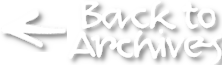
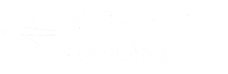
Amend Back to Archives images (e.g. size and hover state)

diff --git a/src/templates/ArchiveNarrative.vue b/src/templates/ArchiveNarrative.vue
@@ -63,16 +63,16 @@
           </div>
 
           <!-- BACK TO ARCHIVES LINK (AT TOP) -->
-          <g-link to="/archives/menu" v-b-tooltip.hover.bottom="{ variant: 'secondary' }" title="Back to Archives menu" class="backToArchives backToArchivesImgTranslate">
-            <!-- <g-image v-if="windowWidth >= 1200" alt="Back to Archives" src="~/assets/images/back-to-archives-with-arrow-on-left.png" /> -->
-            <g-image v-if="windowWidth >= 1200" alt="Back to Archives" src="~/assets/images/back-to-archives-single-line.png" style="max-width:18.5vmax" />
-            <g-image v-else alt="Back to Archives" src="~/assets/images/back-to-archives-with-arrow-on-top.png" class="backToArchivesImg" />
+          <g-link to="/archives/menu" v-b-tooltip.hover.bottom="{ variant: 'secondary' }" title="Back to Archives menu" class="backToArchives">
+            <g-image alt="Back to Archives" src="~/assets/images/back-to-archives-single-line.png" class="backToArchivesImg pt-3 pt-md-2" />
+            <g-image alt="Back to Archives" src="~/assets/images/back-to-archives-single-line-yellow1.png" class="backToArchivesImg-hover pt-3 pt-md-2" />
           </g-link>
         </header>
 
         <!-- BACK TO ARCHIVES LINK (AT END) -->
         <g-link v-else-if="s.backLink" to="/archives/menu" v-b-tooltip.hover.bottom="{ variant: 'secondary' }" title="Back to Archives menu" class="backToArchivesEnd">
-          <g-image alt="Back to Archives" src="~/assets/images/back-to-archives-with-arrow-on-left.png" />
+          <g-image alt="Back to Archives" src="~/assets/images/back-to-archives-with-arrow-on-left.png"  class="backToArchivesEndImg"/>
+          <g-image alt="Back to Archives" src="~/assets/images/back-to-archives-with-arrow-on-left-yellow.png" class="backToArchivesEndImg-hover" />
         </g-link>
         
         <div 
@@ -646,15 +646,42 @@ export default {
   right: 60px;
   z-index: 100;
 }
-.backToArchivesImg {
-  max-width: 222px;
+.backToArchivesImg,
+.backToArchivesImg-hover {
+  width: 50vw;
+  max-width: 260px;
   height: auto;
 }
+.backToArchivesImg {
+  display: inline-block;
+}
+.backToArchivesImg-hover {
+  display: none;
+}
+
 .backToArchivesEnd {
   position: absolute;
   left: 50%;
   transform: translate3d(-50%, -50%, 10px);
 }
+.backToArchivesEndImg {
+  display: inline-block;
+}
+.backToArchivesEndImg-hover {
+  display: none;
+}
+
+@media (hover) {
+  .backToArchives:hover .backToArchivesImg-hover,
+  .backToArchivesEnd:hover .backToArchivesEndImg-hover {
+    display: inline-block;
+  }
+  .backToArchives:hover .backToArchivesImg,
+  .backToArchivesEnd:hover .backToArchivesEndImg {
+    display: none;
+  }
+}
+
 
 #header {
   position: relative;
@@ -966,9 +993,6 @@ body {
     top: 20px;
     right: 20px;
   }
-  .backToArchivesImg {
-    max-width: 100px;
-  }
   #header {
     display: flex;
     align-items: center;
@@ -1002,9 +1026,6 @@ body {
     top: 27px;
     right: 27px;
   }
-  .backToArchivesImg {
-    max-width: 110px;
-  }
   #header {
     padding: 130px 4px 4px 4px !important;
   }
@@ -1015,9 +1036,6 @@ body {
   .backToArchives {
     top: 33px;
     right: 33px;
-  }
-  .backToArchivesImg {
-    max-width: 120px;
   }
   #header {
     padding: 130px 50px 30px 50px !important;
@@ -1037,11 +1055,16 @@ body {
     top: 37px;
     right: 37px;
   }
-  .backToArchivesImg {
-    max-width: 130px;
-  }
   #header {
     padding: 130px 50px 30px 50px !important;
+  }
+}
+
+/* Large devices (desktops, 1200px and up) */
+@media only screen and (min-width: 1200px) { 
+  .backToArchivesImg,
+  .backToArchivesImg-hover {
+    max-width: 300px;
   }
 }
 

diff --git a/src/templates/Archive.vue b/src/templates/Archive.vue
@@ -3,8 +3,8 @@
     <div v-on:[eventName]="closeLargeImg()" class="pb-5">
 
       <g-link to="/archives/menu" v-b-tooltip.hover.bottom="{ variant: 'secondary' }" title="Back to Archives menu" class="backToArchives">
-        <g-image v-if="windowWidth >= 1200" alt="Back to Archives" src="~/assets/images/back-to-archives-with-arrow-on-left.png" />
-        <g-image v-else alt="Back to Archives" src="~/assets/images/back-to-archives-with-arrow-on-top.png" class="backToArchivesImg" />
+        <g-image alt="Back to Archives" src="~/assets/images/back-to-archives-single-line.png" class="backToArchivesImg pt-3 pt-md-2" />
+        <g-image alt="Back to Archives" src="~/assets/images/back-to-archives-single-line-yellow1.png" class="backToArchivesImg-hover pt-3 pt-md-2" />
       </g-link>
 
       <header id="header" class="px-3">
@@ -527,9 +527,25 @@ export default {
   right: 60px;
   z-index: 100;
 }
-.backToArchivesImg {
-  max-width: 222px;
+.backToArchivesImg,
+.backToArchivesImg-hover {
+  width: 50vw;
+  max-width: 260px;
   height: auto;
+}
+.backToArchivesImg {
+  display: inline-block;
+}
+.backToArchivesImg-hover {
+  display: none;
+}
+@media (hover) {
+  .backToArchives:hover .backToArchivesImg-hover {
+    display: inline-block;
+  }
+  .backToArchives:hover .backToArchivesImg {
+    display: none;
+  }
 }
 
 #header {
@@ -767,9 +783,6 @@ export default {
     top: 20px;
     right: 20px;
   }
-  .backToArchivesImg {
-    max-width: 100px;
-  }
   .galleryWrapper {
     grid-gap: 16px;
   }
@@ -780,9 +793,6 @@ export default {
   .backToArchives {
     top: 27px;
     right: 27px;
-  }
-  .backToArchivesImg {
-    max-width: 110px;
   }
   .galleryWrapper {
     grid-gap: 16px;
@@ -798,9 +808,6 @@ export default {
     top: 33px;
     right: 33px;
   }
-  .backToArchivesImg {
-    max-width: 120px;
-  }
 }
 
 /* Large devices (desktops, 992px and up) */
@@ -812,8 +819,13 @@ export default {
     top: 37px;
     right: 37px;
   }
+}
+
+/* Large devices (desktops, 1200px and up) */
+@media only screen and (min-width: 1200px) { 
+  .backToArchivesImg-hover,
   .backToArchivesImg {
-    max-width: 130px;
+    max-width: 300px;
   }
 }
 
